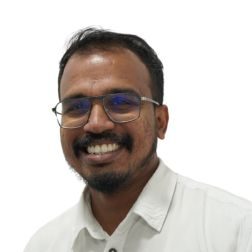
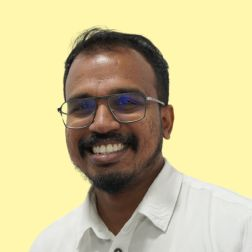
teamchanges

diff --git a/about-us.html b/about-us.html
@@ -211,8 +211,8 @@
 
       <!-- tp-counter-area-strat -->
       
-      <div class="tp-cta-area cta-space-three pt-80 pb-80">
-         <div class="container">
+      <!-- <div class="tp-cta-area cta-space-three pt-80 pb-80"> -->
+         <!-- <div class="container"> -->
             <!-- <div class="cta-space wow tpfadeUp" data-wow-duration=".7s" data-wow-delay=".3s">
                 <div class="row">
                   <div class="col-xl-8 col-lg-9 ">
@@ -229,18 +229,23 @@
                   </div>
                </div>
             </div> -->
-            <div class="row">
+            <!-- <div class="row">
                <div class="text-center">
                   <div class="cta-item p-relative wow tpfadeUp"data-wow-duration=".5s" data-wow-delay=".5s">
                      <h3 class="cta-small-text"><a href="#">Meet Our Team</a></h3>
-                     <!-- <div class="cta-effect-img">
+                     <div class="cta-effect-img">
                         <img src="https://data.themeim.com/html/sixart/assets/img/cta/cta-2.png" alt="">
-                     </div> -->
+                     </div>
                   </div>
                </div>
-            </div>
-         </div>
-      </div>
+            </div> -->
+         
+         <!-- </div> -->
+      <!-- </div> -->
+      <div class="wrapper pt-100 pb-100 w-100" style="text-align: center;">
+         <h1 style="text-align: center;">Meet Our team</h1>
+         <h1 style="text-align: center;">Meet Our team</h1>
+        </div>
       <div class="tp-team-area pt-30 pb-30">
          <div class="container">
             <div class="row">
@@ -267,7 +272,7 @@
                <div class="col-xl-3 col-lg-3 col-md-6 mb-60 wow tpfadeUp" data-wow-duration=".7s" data-wow-delay=".5s">
                   <div class="tp-team team-inner text-center">
                      <div class="tp-team-thumb p-relative">
-                        <img src="assets/img/team/mufeed.png" alt="">
+                        <img src="assets/img/team/tharun.jpg" alt="">
                         <div class="tp-team-thumb-icon">
                            <a href="about-me.html"><i class="far fa-long-arrow-right"></i></a>
                         </div> 
@@ -287,7 +292,7 @@
                <div class="col-xl-3 col-lg-3 col-md-6 mb-60 wow tpfadeUp" data-wow-duration=".7s" data-wow-delay=".7s">
                   <div class="tp-team team-inner text-center">
                      <div class="tp-team-thumb p-relative">
-                        <img src="assets/img/team/tharun.jpg" alt="">
+                        <img src="assets/img/team/mufeed.png" alt="">
                         <div class="tp-team-thumb-icon">
                            <a href="about-me.html"><i class="far fa-long-arrow-right"></i></a>
                         </div> 
@@ -307,13 +312,53 @@
                <div class="col-xl-3 col-lg-3 col-md-6 mb-60 wow tpfadeUp" data-wow-duration=".7s" data-wow-delay=".8s">
                   <div class="tp-team team-inner text-center">
                      <div class="tp-team-thumb p-relative">
-                        <img src="assets/img/team/rasla.jpg" alt="">
+                        <img src="assets/img/team/emmanuel.jpg" alt="">
                         <div class="tp-team-thumb-icon">
                            <a href="about-me.html"><i class="far fa-long-arrow-right"></i></a>
                         </div> 
                      </div>
                      <div class="tp-team-content">
                         <h4 class="tp-team-title"><a href="about-me.html">David D. Rethman</a></h4>
+                        <span>Web Developer</span>
+                     </div>
+                     <div class="tp-team-social">
+                        <a href="#"><i class="fab fa-facebook-f"></i></a>
+                        <a href="#"><i class="fab fa-twitter"></i></a>
+                        <a href="#"><i class="fab fa-youtube"></i></a>
+                        <a href="#"><i class="fab fa-pinterest"></i></a>
+                     </div>
+                  </div>
+               </div>
+               <div class="col-xl-3 col-lg-3 col-md-6 mb-60 wow tpfadeUp" data-wow-duration=".7s" data-wow-delay="1.1s">
+                  <div class="tp-team team-inner text-center">
+                     <div class="tp-team-thumb p-relative">
+                        <img src="assets/img/team/razeem.jpg" alt="">
+                        <div class="tp-team-thumb-icon">
+                           <a href="about-me.html"><i class="far fa-long-arrow-right"></i></a>
+                        </div> 
+                     </div>
+                     <div class="tp-team-content">
+                        <h4 class="tp-team-title"><a href="about-me.html">Eleanor Pena</a></h4>
+                        <span>Web Developer</span>
+                     </div>
+                     <div class="tp-team-social">
+                        <a href="#"><i class="fab fa-facebook-f"></i></a>
+                        <a href="#"><i class="fab fa-twitter"></i></a>
+                        <a href="#"><i class="fab fa-youtube"></i></a>
+                        <a href="#"><i class="fab fa-pinterest"></i></a>
+                     </div>
+                  </div>
+               </div>
+               <div class="col-xl-3 col-lg-3 col-md-6 mb-60 wow tpfadeUp" data-wow-duration=".7s" data-wow-delay="1.1s">
+                  <div class="tp-team team-inner text-center">
+                     <div class="tp-team-thumb p-relative">
+                        <img src="assets/img/team/binu.jpg" alt="">
+                        <div class="tp-team-thumb-icon">
+                           <a href="about-me.html"><i class="far fa-long-arrow-right"></i></a>
+                        </div> 
+                     </div>
+                     <div class="tp-team-content">
+                        <h4 class="tp-team-title"><a href="about-me.html">Eleanor Pena</a></h4>
                         <span>Web Developer</span>
                      </div>
                      <div class="tp-team-social">
@@ -367,7 +412,7 @@
                <div class="col-xl-3 col-lg-3 col-md-6 mb-60 wow tpfadeUp" data-wow-duration=".7s" data-wow-delay="1s">
                   <div class="tp-team team-inner text-center">
                      <div class="tp-team-thumb p-relative">
-                        <img src="assets/img/team/team-7.jpg" alt="">
+                        <img src="assets/img/team/asif.jpg" alt="">
                         <div class="tp-team-thumb-icon">
                            <a href="about-me.html"><i class="far fa-long-arrow-right"></i></a>
                         </div> 
@@ -387,7 +432,107 @@
                <div class="col-xl-3 col-lg-3 col-md-6 mb-60 wow tpfadeUp" data-wow-duration=".7s" data-wow-delay="1.1s">
                   <div class="tp-team team-inner text-center">
                      <div class="tp-team-thumb p-relative">
-                        <img src="assets/img/team/team-8.jpg" alt="">
+                        <img src="assets/img/team/divya.jpg" alt="">
+                        <div class="tp-team-thumb-icon">
+                           <a href="about-me.html"><i class="far fa-long-arrow-right"></i></a>
+                        </div> 
+                     </div>
+                     <div class="tp-team-content">
+                        <h4 class="tp-team-title"><a href="about-me.html">Eleanor Pena</a></h4>
+                        <span>Web Developer</span>
+                     </div>
+                     <div class="tp-team-social">
+                        <a href="#"><i class="fab fa-facebook-f"></i></a>
+                        <a href="#"><i class="fab fa-twitter"></i></a>
+                        <a href="#"><i class="fab fa-youtube"></i></a>
+                        <a href="#"><i class="fab fa-pinterest"></i></a>
+                     </div>
+                  </div>
+               </div>
+               <div class="col-xl-3 col-lg-3 col-md-6 mb-60 wow tpfadeUp" data-wow-duration=".7s" data-wow-delay="1.1s">
+                  <div class="tp-team team-inner text-center">
+                     <div class="tp-team-thumb p-relative">
+                        <img src="assets/img/team/rasla.jpg" alt="">
+                        <div class="tp-team-thumb-icon">
+                           <a href="about-me.html"><i class="far fa-long-arrow-right"></i></a>
+                        </div> 
+                     </div>
+                     <div class="tp-team-content">
+                        <h4 class="tp-team-title"><a href="about-me.html">Eleanor Pena</a></h4>
+                        <span>Web Developer</span>
+                     </div>
+                     <div class="tp-team-social">
+                        <a href="#"><i class="fab fa-facebook-f"></i></a>
+                        <a href="#"><i class="fab fa-twitter"></i></a>
+                        <a href="#"><i class="fab fa-youtube"></i></a>
+                        <a href="#"><i class="fab fa-pinterest"></i></a>
+                     </div>
+                  </div>
+               </div>
+               <div class="col-xl-3 col-lg-3 col-md-6 mb-60 wow tpfadeUp" data-wow-duration=".7s" data-wow-delay="1.1s">
+                  <div class="tp-team team-inner text-center">
+                     <div class="tp-team-thumb p-relative">
+                        <img src="assets/img/team/sikha.jpg" alt="">
+                        <div class="tp-team-thumb-icon">
+                           <a href="about-me.html"><i class="far fa-long-arrow-right"></i></a>
+                        </div> 
+                     </div>
+                     <div class="tp-team-content">
+                        <h4 class="tp-team-title"><a href="about-me.html">Eleanor Pena</a></h4>
+                        <span>Web Developer</span>
+                     </div>
+                     <div class="tp-team-social">
+                        <a href="#"><i class="fab fa-facebook-f"></i></a>
+                        <a href="#"><i class="fab fa-twitter"></i></a>
+                        <a href="#"><i class="fab fa-youtube"></i></a>
+                        <a href="#"><i class="fab fa-pinterest"></i></a>
+                     </div>
+                  </div>
+               </div>
+               <div class="col-xl-3 col-lg-3 col-md-6 mb-60 wow tpfadeUp" data-wow-duration=".7s" data-wow-delay="1.1s">
+                  <div class="tp-team team-inner text-center">
+                     <div class="tp-team-thumb p-relative">
+                        <img src="assets/img/team/sandra.jpg" alt="">
+                        <div class="tp-team-thumb-icon">
+                           <a href="about-me.html"><i class="far fa-long-arrow-right"></i></a>
+                        </div> 
+                     </div>
+                     <div class="tp-team-content">
+                        <h4 class="tp-team-title"><a href="about-me.html">Eleanor Pena</a></h4>
+                        <span>Web Developer</span>
+                     </div>
+                     <div class="tp-team-social">
+                        <a href="#"><i class="fab fa-facebook-f"></i></a>
+                        <a href="#"><i class="fab fa-twitter"></i></a>
+                        <a href="#"><i class="fab fa-youtube"></i></a>
+                        <a href="#"><i class="fab fa-pinterest"></i></a>
+                     </div>
+                  </div>
+               </div>
+               <div class="col-xl-3 col-lg-3 col-md-6 mb-60 wow tpfadeUp" data-wow-duration=".7s" data-wow-delay="1.1s">
+                  <div class="tp-team team-inner text-center">
+                     <div class="tp-team-thumb p-relative">
+                        <img src="assets/img/team/femina.jpg" alt="">
+                        <div class="tp-team-thumb-icon">
+                           <a href="about-me.html"><i class="far fa-long-arrow-right"></i></a>
+                        </div> 
+                     </div>
+                     <div class="tp-team-content">
+                        <h4 class="tp-team-title"><a href="about-me.html">Eleanor Pena</a></h4>
+                        <span>Web Developer</span>
+                     </div>
+                     <div class="tp-team-social">
+                        <a href="#"><i class="fab fa-facebook-f"></i></a>
+                        <a href="#"><i class="fab fa-twitter"></i></a>
+                        <a href="#"><i class="fab fa-youtube"></i></a>
+                        <a href="#"><i class="fab fa-pinterest"></i></a>
+                     </div>
+                  </div>
+               </div>
+               <div class="col-xl-3 col-lg-3 col-md-6 mb-60 wow tpfadeUp" data-wow-duration=".7s" data-wow-delay="1.1s">
+                  <div class="tp-team team-inner text-center">
+                     <div class="tp-team-thumb p-relative">
+                        <img src="assets/img/team/suneer.jpg" alt="">
                         <div class="tp-team-thumb-icon">
                            <a href="about-me.html"><i class="far fa-long-arrow-right"></i></a>
                         </div> 

diff --git a/assets/css/style.css b/assets/css/style.css
@@ -8963,5 +8963,66 @@ p.checkout-coupon input[type=text]:focus {
   opacity: 1;
   background: radial-gradient(ellipse at center, rgba(0, 0, 0, 0.25) 0%, rgba(0, 0, 0, 0) 80%);
 }
+@import url("https://fonts.googleapis.com/css?family=Poppins:100,200,300,400,500,600,700,800,900");
+
+* {
+	box-sizing: border-box;
+	font-family: "Poppins", sans-serif;
+}
+
+
+.wrapper {
+	position: relative;
+}
+
+.wrapper h1 {
+	color: #fff;
+	font-size: 65px;
+	position: absolute;
+  top: 50%;
+  left: 50%;
+	transform: translate(-50%, -50%);
+}
+
+.wrapper h1:nth-child(1) {
+	color: transparent;
+	-webkit-text-stroke: 0.7px #000000;
+}
+
+.wrapper h1:nth-child(2) {
+	color: #000000;
+	animation: animate 4s ease-in-out infinite;
+}
+
+@keyframes animate {
+	0%,
+	100% {
+		clip-path: polygon(
+			0% 45%,
+			16% 44%,
+			33% 50%,
+			54% 60%,
+			70% 61%,
+			84% 59%,
+			100% 52%,
+			100% 100%,
+			0% 100%
+		);
+	}
+
+	50% {
+		clip-path: polygon(
+			0% 60%,
+			15% 65%,
+			34% 66%,
+			51% 62%,
+			67% 50%,
+			84% 45%,
+			100% 46%,
+			100% 100%,
+			0% 100%
+		);
+	}
+}
 
 /*# sourceMappingURL=style.css.map */
